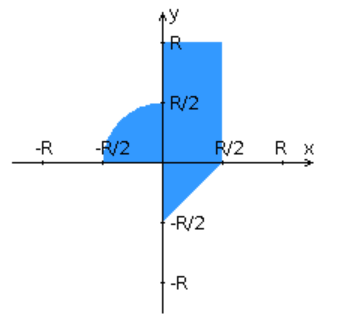
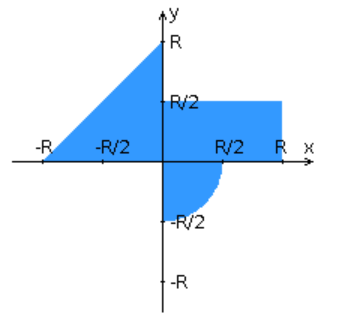
страдать

diff --git a/src/main/webapp/resources/js/validation.js b/src/main/webapp/resources/js/validation.js
@@ -1,95 +1,70 @@
 $(document).ready(function () {
-    let canvas = $('#canvas');
+    const K = 67,
+        AXIS = 110,
+        Y_MIN = -5,
+        X_MIN = -3,
+        MAX = 5;
 
-    const COEFF = 67;
-    const AXIS = 110;
+    let x, y, radius,
+        result_style = $("#res-block").style,
+        alert = $(".error"),
+        colour = "green",
+        canvas = $("#canvas");
 
-    const Y_MIN = -3;
-    const Y_MAX = 3;
-    const X_VALUES = ['-2', '-1.5', '-1', '-0.5', '0', '0.5', '1', '1.5', '2'];
-    const y_error = document.querySelector('#y_val+span.error');
-
-    let x;
-    let radius;
-    let message;
-    let isValid = false;
-    let yField = document.getElementById("y_val");
-
-    let value = $("#y_val").val().replace(',', '.');
-    let result_style = document.getElementById('row').style;
-
-
-    function getRadius() {
-        $('.set_r').on('click', function () {
-            radius = $(this).val();
-        })
-    }
-
-
-    function getX() {
-        $('input[name="x_value"]').on('check', function () {
-            x = $('input[name="x_value"]:checked').val();
-        })
+    function isCorrectInput(number) {
+        return number instanceof Number && !isNaN(number);
     }
 
     function validateX() {
-        if ($('input[name="x_value"]').not(':checked')) {
-            isValid = false;
+        x = $("#x_value").val().replace(',', '.');
+        console.log("x: ${x}");
+        if (isCorrectInput(x)) {
+            alert.textContent = "";
+            alert.className = "error";
+            return true;
+        } else {
+            alert.textContent = "Введите значение X в диапазоне от ${X_MIN} до ${MAX}!"
+            alert.className = "error active";
+            return false;
         }
     }
-
-
-    function isValidValue(node) {
-        return node.validity.valid;
-    }
-
 
     function validateY() {
-        yField.addEventListener("input", function (event) {
-            if (isValidValue(yField)) {
-                isValid = true;
-                y_error.textContent = '';
-                y_error.className = 'error';
-            } else {
-                showMessage();
-                event.preventDefault();
-            }
-        });
-    }
-
-
-    function checkFirstQuarter(x, y, r) {
-        return x <= 0 && y >= 0 && x * x + y * y <= r / 2;
-    }
-
-    function checkSecondQuarter(x, y, r) {
-        return x >= 0 && y >= 0 && x <= r / 2 && y <= r;
-    }
-
-    function checkForthQuarter(x, y, r) {
-        return x >= 0 && y <= 0 && y >= x - r / 2;
-    }
-
-
-    function checkCoordinates(x, y, r) {
-        return checkFirstQuarter(x, y, r) || checkSecondQuarter(x, y, r) || checkForthQuarter(x, y, r);
-    }
-
-
-    function showMessage() {
-        if (yField.validity.valueMissing || !(value instanceof Number)) {
-            y_error.textContent = 'Пожалуйста, введите число! :(';
-        } else if (!isNaN(parseFloat(value))) {
-            y_error.textContent = 'Вы ввели невалидное число!';
+        y = parseFloat($("#y_value").val().replace(',', '.'));
+        console.log("y: ${y}");
+        if (isCorrectInput(y)) {
+            alert.textContent = "";
+            alert.className = "error";
+            return true;
+        } else {
+            alert.textContent = "Введите значение Y в диапазоне от ${Y_MIN} до ${MAX}!"
+            alert.className = "error active";
+            return false;
         }
+    }
 
-        if (yField.validity.rangeOverflow) {
-            y_error.textContent = 'Максимальное значение y = 3!';
+    function validateR() {
+        radius = $("#r_value").val().replace(',', '.');
+        console.log("radius: ${radius}")
+        if (isCorrectInput(radius)) {
+            alert.textContent = "";
+            alert.className = "error";
+            return true;
+        } else {
+            alert.textContent = "Введите значение R!"
+            alert.className = "error active";
+            return false;
         }
-        if (yField.validity.rangeUnderflow) {
-            y_error.textContent = "Минимальное значение у = -3!"
-        }
-        y_error.className = 'error active';
+    }
+
+    function validateAllInputs() {
+        return validateX() || validateY() || validateR();
+    }
+
+    function checkQuarters(x, y) {
+        return x >= 0 && y <= 0 && x * x + y * y <= radius / 2
+            || x <= 0 && y >= 0 && y <= x + radius
+            || x >= 0 && y >= 0 && x <= radius && y <= radius / 2;
     }
 
     function clearCanvas() {
@@ -98,95 +73,43 @@ $(document).ready(function () {
 
     function drawPoint(x, y, color) {
         clearCanvas();
-        let Axes = canvas[0].getContext('2d');
+        let axes = canvas[0].getContext('2d');
         if (x > canvas.width() || x < -canvas.width() || y > canvas.height() || y < -canvas.height()) {
             return;
         }
-        Axes.setLineDash([2, 2]);
-        Axes.beginPath();
-        Axes.moveTo(x, 110);
-        Axes.lineTo(x, y);
-        Axes.moveTo(110, y);
-        Axes.lineTo(x, y);
-        Axes.stroke();
-        Axes.fillStyle = color;
-        Axes.arc(x, y, 2, 0, 2 * Math.PI);
-        Axes.fill();
+        axes.setLineDash([2, 2]);
+        axes.beginPath();
+        axes.moveTo(x, 110);
+        axes.lineTo(x, y);
+        axes.moveTo(110, y);
+        axes.lineTo(x, y);
+        axes.stroke();
+        axes.fillStyle = color;
+        axes.arc(x, y, 2, 0, 2 * Math.PI);
+        axes.fill();
     }
 
-    function redrawFromInput(x, y, radius) {
-        let color = 'red';
-        if (checkCoordinates(x, y, radius)) {
-            color = 'green';
-        }
-        drawPoint(x * COEFF / radius + AXIS, -(y / radius * COEFF - AXIS), color);
+    function redrawFromInput() {
+        if (!checkQuarters(x, y)) colour = "red";
+        drawPoint(x * K / radius + AXIS, -(y / radius * K - AXIS), colour);
     }
 
-    function clickDraw(event) {
-        let x = (event.offsetX - AXIS) / COEFF * radius;
-        let minDiff = Infinity;
-        let nearestXValue;
-        for (let i = 0; i < X_VALUES.length; i++) {
-            if (Math.abs(x - X_VALUES[i]) < minDiff) {
-                minDiff = Math.abs(x - X_VALUES[i]);
-                nearestXValue = X_VALUES[i];
-            }
-        }
+    canvas.on("click", function (event) {
+        if (!validateR()) return;
+        let x = (event.offsetX - AXIS) / K * radius;
+        if (x < X_MIN) x = X_MIN;
+        if (x > MAX) x = MAX;
 
-        let y = (-event.offsetY + AXIS) / COEFF * radius;
+        let y = (-event.offsetY + AXIS) / K * radius;
         if (y < Y_MIN) y = Y_MIN;
-        if (y > Y_MAX) y = Y_MAX;
+        if (y > MAX) y = MAX;
 
-        let color = 'red';
-        if (checkCoordinates(x, y, radius)) {
-            color = 'green';
-        }
-
-        drawPoint(COEFF * nearestXValue / radius + AXIS, -(y / radius * COEFF - AXIS), color);
-    }
-
-    canvas.on('click', clickDraw);
-
-
-
-    getX();
-    validateX();
-    validateY();
-    $("#form").on("submit", function (event) {
-        event.preventDefault();
-
-        if (!isValid) {
-            return;
-        }
-
-        $.ajax({
-            type: "POST",
-            url: "controller",
-            data: $(this).serialize() + "&radius=" + radius,
-            beforeSend: function () {
-                $(".send_form").attr("disabled", "disabled");
-            },
-            success: function (data) {
-                console.log("ajax_success: " + data);
-                $(".send_form").attr("disabled", false);
-                result_style.display = 'table-row';
-                document.getElementById('receiver').innerHTML = data;
-            },
-            error: function () {
-                console.log("error");
-                $(".send_form").attr("disabled", false);
-            }
-        })
-        return true;
+        if (!checkQuarters(x, y)) colour = "red";
+        drawPoint(K * x / radius + AXIS, -(y / radius * K - AXIS), colour);
     });
 
-
-
-    $(".set_r").on("click", function () {
+    $("#r_value").on("input", function () {
         radius = $(this).val();
-        let x = $('input[name="x_value"]:checked').val();
-        let y = $('#y_val').val();
-
         let svgGraph = document.querySelector(".result-graph").getSVGDocument();
         svgGraph.querySelector('.coordinate-text_minus-Rx').textContent = (-radius).toString();
         svgGraph.querySelector('.coordinate-text_minus-Ry').textContent = (-radius).toString();
@@ -196,32 +119,10 @@ $(document).ready(function () {
         svgGraph.querySelector('.coordinate-text_plus-Ry').textContent = (radius).toString();
         svgGraph.querySelector('.coordinate-text_plus-half-Rx').textContent = (radius / 2).toString();
         svgGraph.querySelector('.coordinate-text_plus-half-Ry').textContent = (radius / 2).toString();
-
-        redrawFromInput(x, y, radius);
+        redrawFromInput();
     });
 
-    $('#form').on("reset", function (event) {
-        $.ajax({
-            type: 'POST',
-            url: 'controller',
-            data: 'msg=' + encodeURI(message),
-            success: function () {
-                result_style.display = 'none';
-                clearCanvas();
-            }
-        })
-    })
-
-
-    $('#y_val').on('change', function () {
-        let y = $('#y_val').val();
-        getRadius();
-        redrawFromInput(x, y, radius);
-    })
-
-    $('.set_X').on('check', function () {
-        let y = $('#y_val').val();
-        redrawFromInput(x, y, radius);
-    })
-
+    // $("#my_form").on("submit", function () {
+    //     result_style.display = "inline-block";
+    // })
 });

diff --git a/src/main/java/weblib/Result.java b/src/main/java/weblib/Result.java
@@ -24,9 +24,9 @@ public class Result {
     }
 
     private boolean checkQuarters() {
-        return x <= 0 && y >= 0 && x * x + y * y <= r / 2
-                || x >= 0 && y >= 0 && x <= r / 2 && y <= r
-                || x >= 0 && y <= 0 && y >= x - r / 2;
+        return x >= 0 && y <= 0 && x * x + y * y <= r / 2
+                || x <= 0 && y >= 0 && y <= x + r
+                || x >= 0 && y >= 0 && x <= r && y <= r / 2;
     }
 }
 
